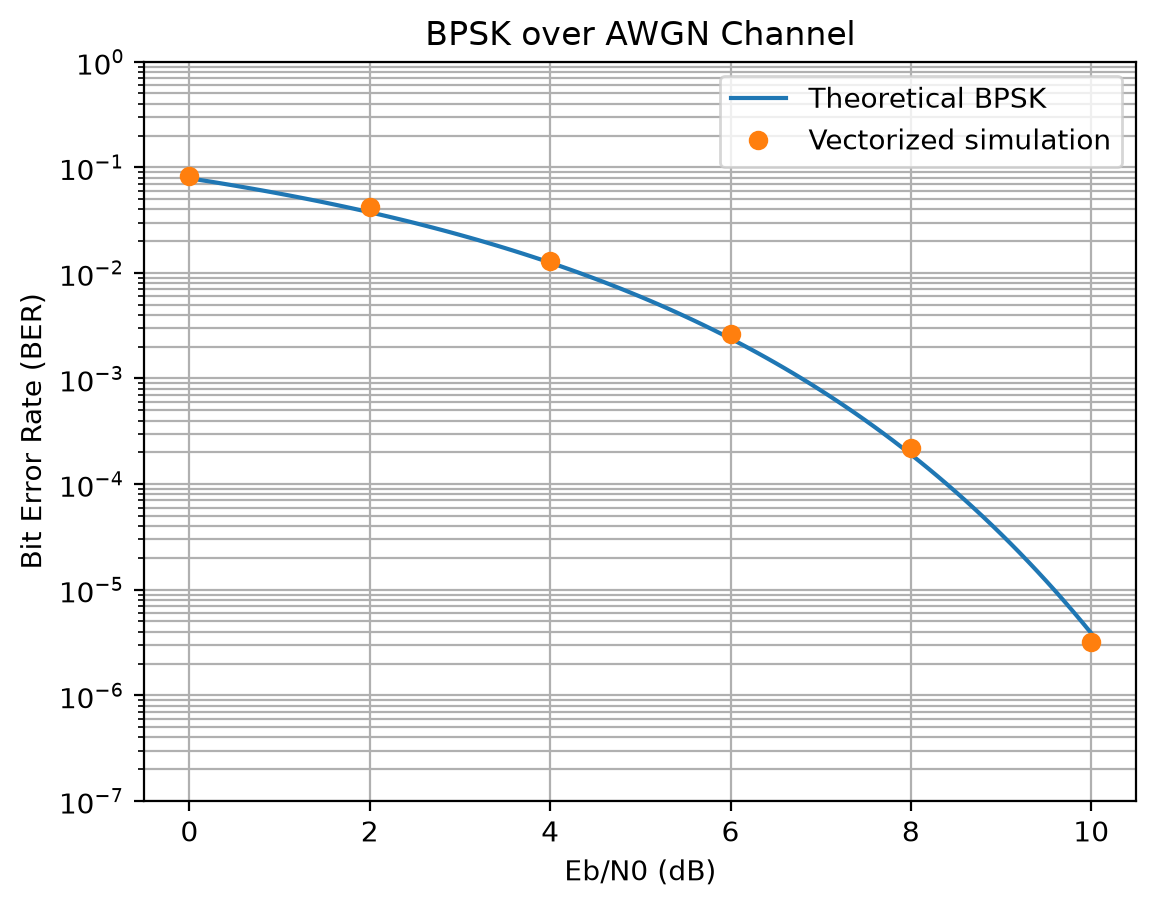
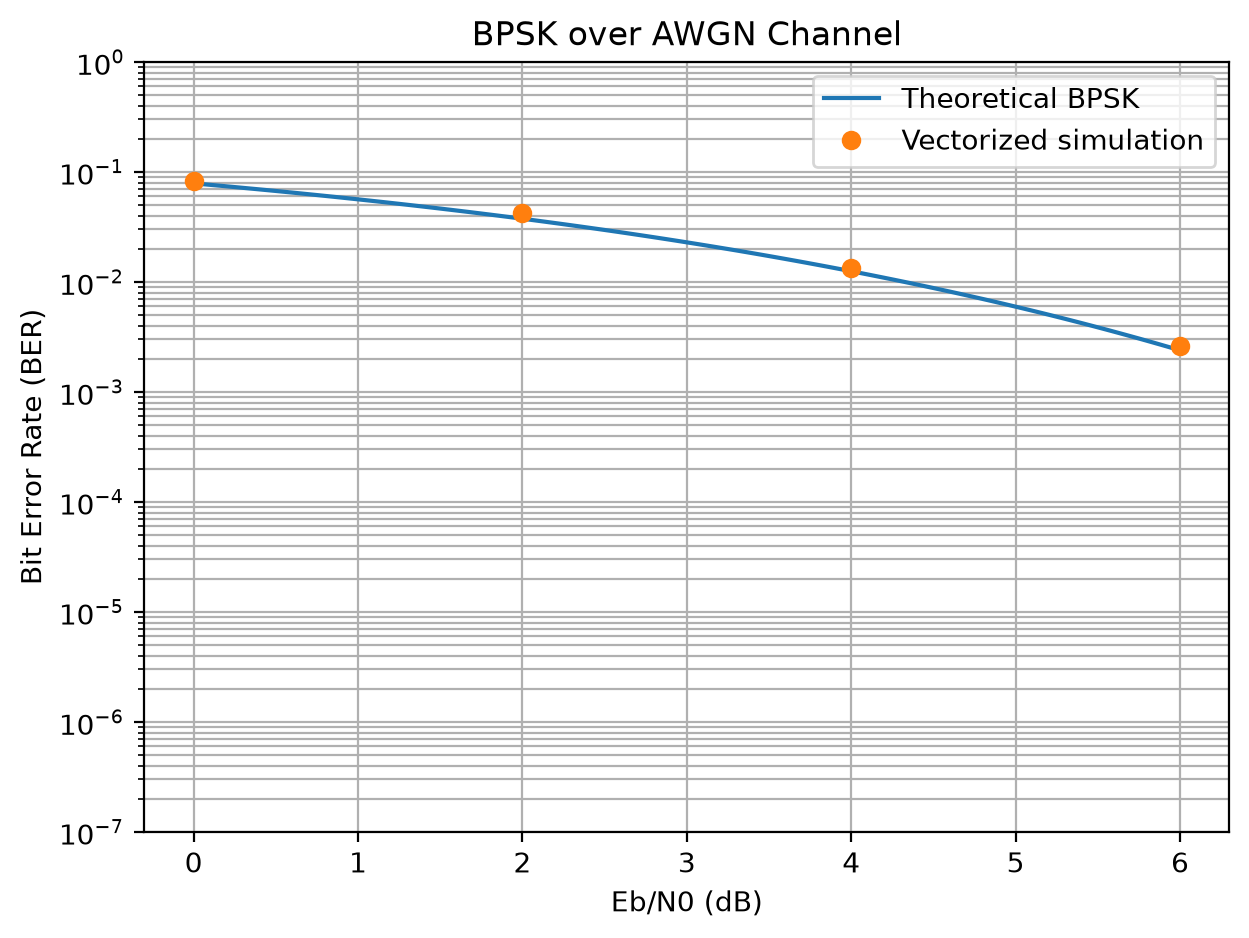
Add modular BPSK simulation with command-line options

Changed region(s): [[0.0, 0.0, 0.9965, 0.9879]]

diff --git a/main.py b/main.py
@@ -1,3 +1,4 @@
+import argparse
 import csv
 import time
 from pathlib import Path
@@ -11,31 +12,119 @@ from bpsk_simulation import (
 from plot_results import plot_ber_curve
 
 
+def parse_arguments():
+    """读取用户在终端中输入的仿真参数。"""
+
+    parser = argparse.ArgumentParser(
+        description="Simulate BPSK BER over an AWGN channel."
+    )
+
+    parser.add_argument(
+        "--min-eb-n0",
+        type=int,
+        default=0,
+        help="Minimum Eb/N0 in dB. Default: 0",
+    )
+
+    parser.add_argument(
+        "--max-eb-n0",
+        type=int,
+        default=10,
+        help="Maximum Eb/N0 in dB. Default: 10",
+    )
+
+    parser.add_argument(
+        "--step",
+        type=int,
+        default=2,
+        help="Eb/N0 step in dB. Default: 2",
+    )
+
+    parser.add_argument(
+        "--target-errors",
+        type=int,
+        default=200,
+        help="Target number of bit errors. Default: 200",
+    )
+
+    parser.add_argument(
+        "--max-bits",
+        type=int,
+        default=10_000_000,
+        help="Maximum simulated bits per point. Default: 10000000",
+    )
+
+    parser.add_argument(
+        "--batch-size",
+        type=int,
+        default=10_000,
+        help="Number of bits per NumPy batch. Default: 10000",
+    )
+
+    parser.add_argument(
+        "--seed",
+        type=int,
+        default=42,
+        help="Random seed. Default: 42",
+    )
+
+    return parser.parse_args()
+
+
 def main():
     """运行完整的BPSK误码率实验。"""
 
-    # 确定项目目录和输出文件位置
+    # 读取命令行参数
+    args = parse_arguments()
+
+    # 检查参数是否合理
+    if args.min_eb_n0 > args.max_eb_n0:
+        raise ValueError(
+            "min-eb-n0不能大于max-eb-n0"
+        )
+
+    if args.step <= 0:
+        raise ValueError("step必须大于0")
+
+    if args.target_errors <= 0:
+        raise ValueError("target-errors必须大于0")
+
+    if args.max_bits <= 0:
+        raise ValueError("max-bits必须大于0")
+
+    if args.batch_size <= 0:
+        raise ValueError("batch-size必须大于0")
+
+    # 确定项目目录
     project_directory = Path(__file__).resolve().parent
 
     csv_path = project_directory / "ber_results.csv"
     image_path = project_directory / "ber_curve_numpy.png"
 
     # 创建随机数生成器
-    rng = np.random.default_rng(42)
+    rng = np.random.default_rng(args.seed)
 
-    # 设置仿真参数
-    target_errors = 200
-    max_bits = 10_000_000
-    batch_size = 10_000
+    # 生成需要测试的Eb/N0列表
+    simulation_eb_n0_db = list(
+        range(
+            args.min_eb_n0,
+            args.max_eb_n0 + 1,
+            args.step,
+        )
+    )
 
-    # 测试0、2、4、6、8、10 dB
-    simulation_eb_n0_db = list(range(0, 11, 2))
-
-    # 保存绘图和CSV数据
     simulation_ber = []
     simulation_results = []
 
-    # 依次测试每个Eb/N0
+    print("Simulation settings:")
+    print(f"  Eb/N0 points: {simulation_eb_n0_db}")
+    print(f"  Target errors: {args.target_errors}")
+    print(f"  Maximum bits: {args.max_bits}")
+    print(f"  Batch size: {args.batch_size}")
+    print(f"  Random seed: {args.seed}")
+    print()
+
+    # 依次仿真每一个Eb/N0
     for eb_n0_db in simulation_eb_n0_db:
         start_time = time.perf_counter()
 
@@ -43,9 +132,9 @@ def main():
             simulate_ber_vectorized(
                 eb_n0_db=eb_n0_db,
                 rng=rng,
-                target_errors=target_errors,
-                max_bits=max_bits,
-                batch_size=batch_size,
+                target_errors=args.target_errors,
+                max_bits=args.max_bits,
+                batch_size=args.batch_size,
             )
         )
 
@@ -59,13 +148,11 @@ def main():
 
         simulation_ber.append(ber)
 
-        # 判断仿真为什么停止
-        if error_count >= target_errors:
+        if error_count >= args.target_errors:
             stop_reason = "target errors reached"
         else:
             stop_reason = "maximum bits reached"
 
-        # 保存本次实验数据
         simulation_results.append([
             eb_n0_db,
             ber,
@@ -76,7 +163,6 @@ def main():
             stop_reason,
         ])
 
-        # 在终端显示本次结果
         print(
             f"Eb/N0: {eb_n0_db:2d} dB | "
             f"Bits: {simulated_bits:9d} | "
@@ -87,7 +173,7 @@ def main():
             f"{stop_reason}"
         )
 
-    # 写入CSV文件
+    # 保存CSV
     with csv_path.open(
         mode="w",
         newline="",
@@ -107,7 +193,7 @@ def main():
 
         writer.writerows(simulation_results)
 
-    # 绘制BER曲线
+    # 绘制曲线
     plot_ber_curve(
         simulation_eb_n0_db=simulation_eb_n0_db,
         simulation_ber=simulation_ber,
